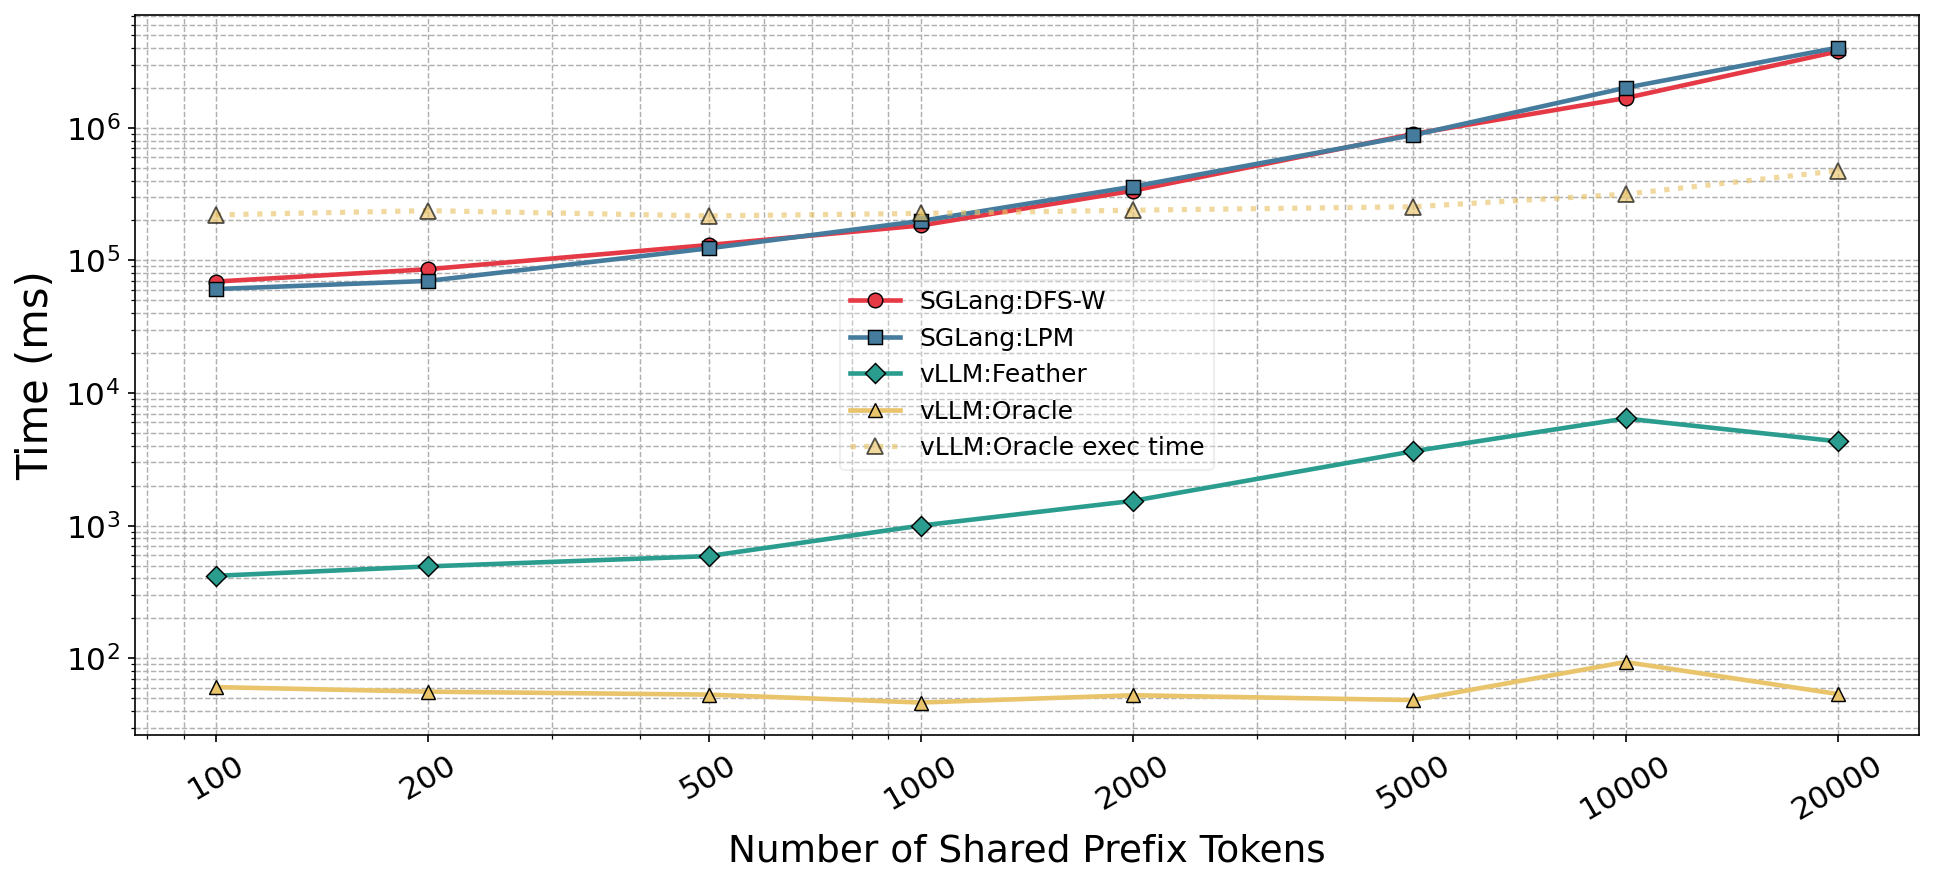
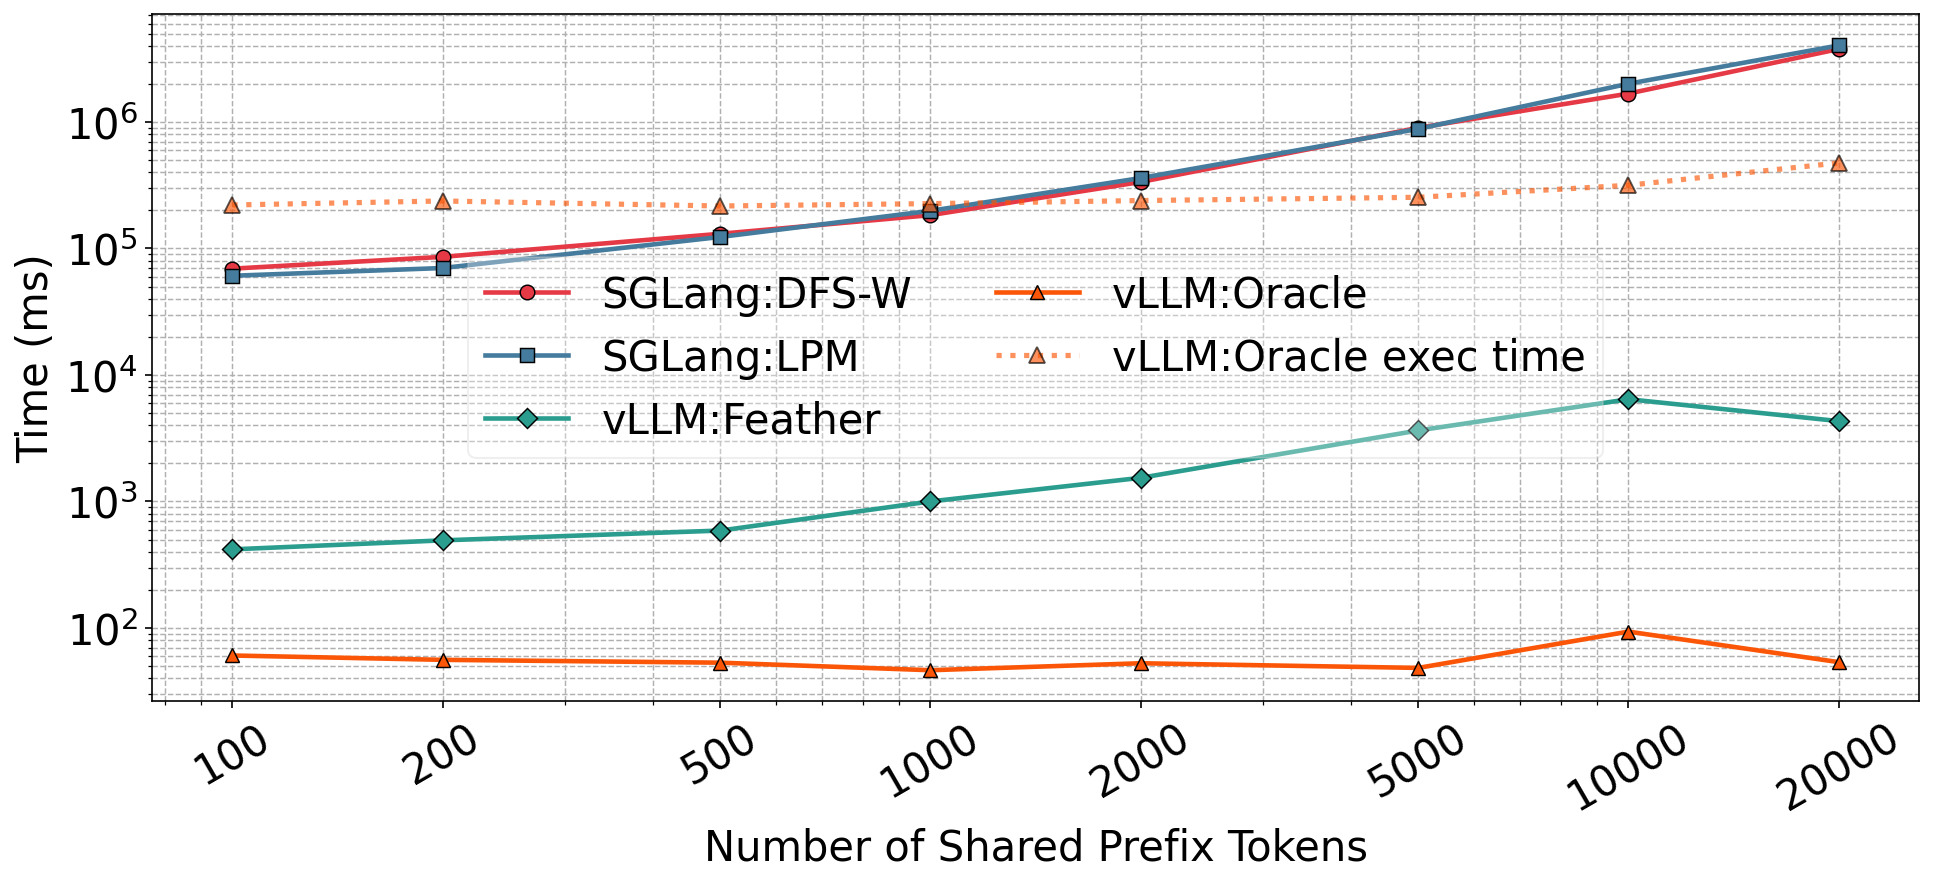
drama plots

diff --git a/code/vllm/sys_prompt_tokens_logs_microbenchmark/plot.py b/code/vllm/sys_prompt_tokens_logs_microbenchmark/plot.py
@@ -1,15 +1,3 @@
-#!/usr/bin/env python3
-"""
-Parse sys_prompt_tokens_logs_microbenchmark/ and generate:
-
-  1. One plot per engine:policy label showing the SUM of all [PROFILE]
-     function totals vs shared prefix tokens.
-
-  2. For the vLLM:FamilyLoad policy specifically, also overlay a line
-     showing total execution time derived from throughput:
-         exec_time_ms = (req * tok_per_req) / throughput_toks_s * 1000
-"""
-
 import os
 import re
 import glob
@@ -134,8 +122,8 @@ for path in log_files:
 
 # ── Plot styling ─────────────────────────────────────────────────────────────
 PALETTE = [
-    "#E63946", "#457B9D", "#2A9D8F", "#E9C46A",
-    "#F4A261", "#8338EC", "#06D6A0", "#FB5607",
+    "#E63946", "#457B9D", "#2A9D8F", "#FB5607",
+    "#F4A261", "#8338EC", "#06D6A0",
     "#3A86FF", "#FF006E",
 ]
 MARKERS    = ["o", "s", "D", "^", "v", "P", "X", "*", "<", ">"]
@@ -199,17 +187,17 @@ for i, label in enumerate(labels):
 
 ax.set_xscale("log")
 ax.set_yscale("log")  # <-- LOG SCALE ON Y-AXIS
-ax.set_xlabel("Number of Shared Prefix Tokens", fontsize=18)
+ax.set_xlabel("Number of Shared Prefix Tokens", fontsize=20)
 ax.set_ylabel("Time (ms)", fontsize=20)
 
 ax.set_xticks(all_sys_toks)
 ax.set_xticklabels([str(t) for t in all_sys_toks], rotation=30)
 ax.get_xaxis().set_major_formatter(ticker.ScalarFormatter())
-ax.tick_params(axis="both", labelsize=15)
+ax.tick_params(axis="both", labelsize=20)
 # Use LogFormatter for y-axis ticks since it's now log scale
 ax.yaxis.set_major_formatter(ticker.LogFormatterSciNotation(base=10, labelOnlyBase=False))
 
-ax.legend(fontsize=12, framealpha=0.3)
+ax.legend(fontsize=20, framealpha=0.3,ncol=2)
 ax.grid(True, which="both", linewidth=0.7, linestyle="--")  # grid on both major/minor ticks
 plt.tight_layout()
 outpath = os.path.join(OUT, "profile_sum_vs_sys_prompt_tokens.png")
